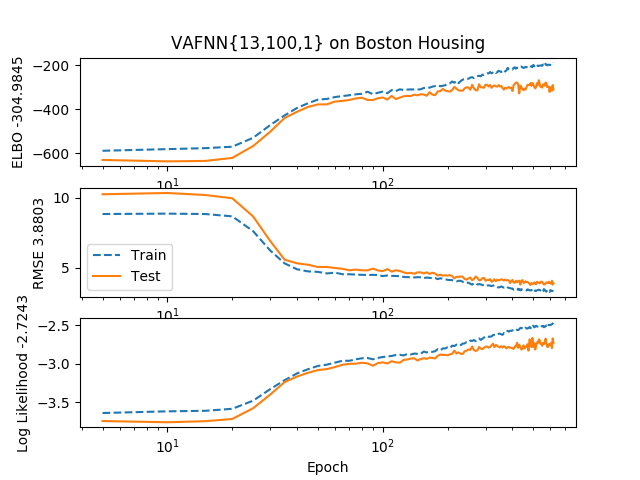
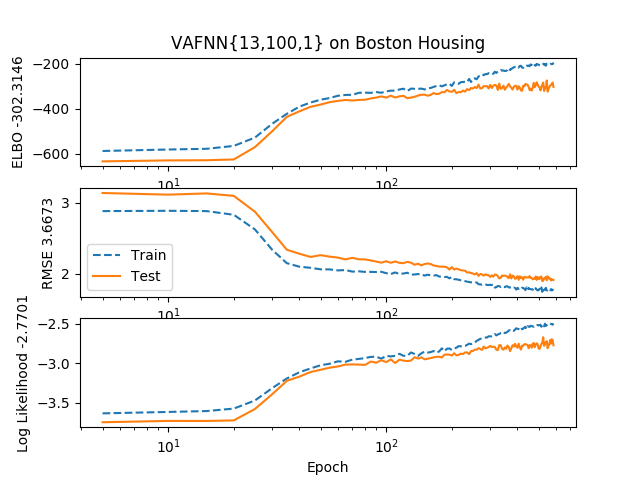
update VAF

diff --git a/expt.py b/expt.py
@@ -51,6 +51,7 @@ def run_experiment(model_names, dataset_name, train_test_set, **args):
     # Define training/evaluation parameters
     save = False if 'save' not in args.keys() else args['save']
     plot_err = True if 'plot_err' not in args.keys() else args['plot_err']
+    drop_rate = 0.5 if 'drop_rate' not in args.keys() else args['drop_rate']
     lb_samples = 20 if 'lb_samples' not in args.keys() else args['lb_samples']
     ll_samples = 100 if 'll_samples' not in args.keys() else args['ll_samples']
     batch_size = 50 if 'batch_size' not in args.keys() else args['batch_size']
@@ -83,7 +84,6 @@ def run_experiment(model_names, dataset_name, train_test_set, **args):
     
         # Build the computation graph
         n_samples = tf.placeholder(tf.int32, shape=[], name='n_samples')
-        is_training = tf.placeholder(tf.bool, shape=[], name='is_training')
         X = tf.placeholder(tf.float32, shape=[None, D])
         if(task == "regression"):
             y = tf.placeholder(tf.float32, shape=[None, P])
@@ -99,11 +99,11 @@ def run_experiment(model_names, dataset_name, train_test_set, **args):
             
             def log_joint(observed):
                 model, _, _ = module.p_Y_Xw(observed, X, n_basis,
-                    net_sizes, n_samples, task, is_training)
+                    net_sizes, n_samples, task, drop_rate)
                 log_pws = model.local_log_prob(w_names)
                 log_py_xw = model.local_log_prob('y')
                 return tf.add_n(log_pws) + zs.log_mean_exp(log_py_xw, 0) * N
-        
+            
             var = module.var_q_w(n_basis, net_sizes, n_samples)
             q_w_outputs = var.query(w_names, outputs=True, local_log_prob=True)
             latent = dict(zip(w_names, q_w_outputs))
@@ -118,25 +118,29 @@ def run_experiment(model_names, dataset_name, train_test_set, **args):
             observed = dict((w_name, latent[w_name][0]) for w_name in w_names)
             observed.update({'y': y_obs})
             model, ys, reg_cost = module.p_Y_Xw(observed, X, n_basis,
-                    net_sizes, n_samples, task, is_training)
+                    net_sizes, n_samples, task, drop_rate)
+            if(reg_cost is not None):
+                cost += reg_cost
             y_pred = tf.reduce_mean(ys, 0)
             if(task == "regression"):
-                sqr_error = tf.reduce_mean(((y_pred - y)*std_y_train) ** 2)
-                task_measure = sqr_error
+                rms_error = tf.sqrt(tf.reduce_mean((y_pred - y)**2))*std_y_train
+                task_measure = rms_error
             elif(task == "classification"):
                 y_pred = tf.argmax(y_pred, 1)
                 sparse_y = tf.argmax(y, 1)
                 accuracy = tf.reduce_mean(tf.cast(
                     tf.equal(y_pred, sparse_y), tf.float32))
-                task_measure = accuracy
+                task_measure = 1-accuracy
             log_py_xw = model.local_log_prob('y')
             if(task == "regression"):
                 log_likelihood = tf.reduce_mean(zs.log_mean_exp(log_py_xw, 0))-\
                     tf.log(std_y_train)
             elif(task == "classification"):
                 log_likelihood = tf.reduce_mean(zs.log_mean_exp(log_py_xw, 0))
-            if(reg_cost is not None):
-                cost += reg_cost
+            
+            # if(model_name == "DropoutNN"):
+            #     cost = task_measure
+            #     lower_bound = -task_measure
             
             lr_ph = tf.placeholder(tf.float32, shape=[])
             global_step = tf.Variable(0, trainable=False)
@@ -167,7 +171,7 @@ def run_experiment(model_names, dataset_name, train_test_set, **args):
                             y_batch = y_train[t*batch_size:(t+1)*batch_size]
                         _, lb = sess.run(
                             [infer_op, cost],
-                            feed_dict={n_samples: lb_samples, is_training: True,
+                            feed_dict={n_samples: lb_samples,
                                 lr_ph: lr, X: X_batch, y: y_batch})
                         lbs.append(lb)
                     time_epoch += time.time()
@@ -186,7 +190,7 @@ def run_experiment(model_names, dataset_name, train_test_set, **args):
                             lb, tm, ll = sess.run(
                                 [lower_bound, task_measure, log_likelihood],
                                 feed_dict={n_samples: ll_samples,
-                                    is_training: False, X: X_batch, y: y_batch})
+                                    X: X_batch, y: y_batch})
                             lbs.append(lb);tms.append(tm);lls.append(ll)
                         train_lb, train_tm, train_ll =\
                             np.mean(lbs), np.mean(tms), np.mean(lls)
@@ -204,7 +208,7 @@ def run_experiment(model_names, dataset_name, train_test_set, **args):
                         print('>> Train lower bound = {:.8f}'.format(train_lb))
                         print('>> Train log_likelihood = {:.8f}'.format(train_ll))
                         if(task == "regression"):
-                            print('>> Train rmse = {:.8f}'.format(np.sqrt(train_tm)))
+                            print('>> Train rmse = {:.8f}'.format(train_tm))
                         elif(task == "classification"):
                             print('>> Train acc = {:.8f}'.format(train_tm))
                         lbs, tms, lls = [], [], []
@@ -218,7 +222,7 @@ def run_experiment(model_names, dataset_name, train_test_set, **args):
                                 y_batch = y_test[t*batch_size:(t+1)*batch_size]
                             lb, mse, ll = sess.run(
                                 [lower_bound, task_measure, log_likelihood],
-                            feed_dict={n_samples: ll_samples, is_training: False,
+                            feed_dict={n_samples: ll_samples,
                                 X: X_batch, y: y_batch})
                             lbs.append(lb);tms.append(mse);lls.append(ll)
                         test_lb, test_tm, test_ll =\
@@ -236,7 +240,7 @@ def run_experiment(model_names, dataset_name, train_test_set, **args):
                         print('>> Test lower bound = {:.8f}'.format(test_lb))
                         print('>> Test log_likelihood = {:.8f}'.format(test_ll))
                         if(task == "regression"):
-                            print('>> Test rmse = {:.8f}'.format(np.sqrt(test_tm)))
+                            print('>> Test rmse = {:.8f}'.format(test_tm))
                         elif(task == "classification"):
                             print('>> Test acc = {:.8f}'.format(test_tm))
                         if(best_lb < train_lb):
@@ -270,8 +274,8 @@ def run_experiment(model_names, dataset_name, train_test_set, **args):
                             X_batch = X_test[t*batch_size:(t+1)*batch_size]
                             y_batch = y_test[t*batch_size:(t+1)*batch_size]
                         mse, ll = sess.run(
-                            [sqr_error, log_likelihood],
-                            feed_dict={n_samples: ll_samples, is_training: False,
+                            [rms_error, log_likelihood],
+                            feed_dict={n_samples: ll_samples, drop_rate: False,
                                 X: X_batch, y: y_batch})
                         tms.append(mse);lls.append(ll)
                     test_tm, test_ll = np.mean(tms), np.mean(lls)
@@ -280,7 +284,7 @@ def run_experiment(model_names, dataset_name, train_test_set, **args):
                 print('>>> BEST TEST')
                 print('>> Test log_likelihood = {:.8f}'.format(test_ll))
                 if(task == "regression"):
-                    print('>> Test rmse = {:.8f}'.format(np.sqrt(test_tm)))
+                    print('>> Test rmse = {:.8f}'.format(test_tm))
                 elif(task == "classification"):
                     print('>> Test acc = {:.8f}'.format(test_tm))
                 eval_tms[model_name].append(test_tm)
@@ -302,15 +306,15 @@ def run_experiment(model_names, dataset_name, train_test_set, **args):
                 
                 plt.subplot(3, 1, 2)
                 plt.semilogx(test_max_epochs,
-                    np.sqrt(fold_train_tms[:best_epoch]), '--', label='Train')
+                    fold_train_tms[:best_epoch], '--', label='Train')
                 plt.semilogx(test_max_epochs,
-                    np.sqrt(fold_test_tms[:best_epoch]), label='Test')
+                    fold_test_tms[:best_epoch], label='Test')
                 plt.legend(loc='lower left')
                 plt.xlabel('Epoch')
                 if(task == "regression"):
-                    plt.ylabel('RMSE {:.4f}'.format(np.sqrt(test_tm)))
+                    plt.ylabel('RMSE {:.4f}'.format(test_tm))
                 elif(task == "classification"):
-                    plt.ylabel('Accuracy {:.4f}'.format(np.sqrt(test_tm)))
+                    plt.ylabel('Accuracy {:.4f}'.format(test_tm))
                     plt.ylim([0, 1])
                     
                 plt.subplot(3, 1, 3)

diff --git a/models/VAFNN.py b/models/VAFNN.py
@@ -24,10 +24,11 @@ import tensorflow.contrib.layers as layers
 
 
 def get_w_names(net_sizes):
-    return ['w'+str(i) for i in range(len(net_sizes)-1)]
+    return ['w'+str(i) for i in range(len(net_sizes)-1)]+\
+        ['omega'+str(i) for i in range(len(net_sizes)-2)]
 
 @zs.reuse('model')
-def p_Y_Xw(observed, X, n_basis, net_sizes, n_samples, task, is_training):
+def p_Y_Xw(observed, X, n_basis, net_sizes, n_samples, task, drop_rate):
     with zs.BayesianNet(observed=observed) as model:
         f = tf.expand_dims(tf.tile(tf.expand_dims(X, 0), [n_samples, 1, 1]), 2)
         KL_V = 0
@@ -48,19 +49,23 @@ def p_Y_Xw(observed, X, n_basis, net_sizes, n_samples, task, is_training):
                     initializer=tf.constant_initializer(0.))
                 b = tf.tile(b, [n_samples, tf.shape(X)[0], 1, 1])
                 f = (tf.matmul(f, A)+b)/tf.sqrt(net_sizes[i]*1.)
-                f = layers.dropout(f, 0.5, is_training=True)
-                V = tf.get_variable('w_var'+str(i),
+                # f = layers.dropout(f, drop_rate)
+                w_p = tf.zeros([1, 1, net_sizes[i+1]])+drop_rate
+                w = zs.Bernoulli('w'+str(i), w_p,
+                    n_samples=n_samples, group_ndims=2)
+                f = f*tf.cast(w, tf.float32)
+                V = tf.get_variable('omega_var'+str(i),
                     shape=[1, 1, net_sizes[i+1], n_basis],
                     initializer=tf.constant_initializer(0.))
                 V = tf.tile(tf.abs(V), [n_samples, tf.shape(X)[0], 1, 1])
                 expVf2 = tf.exp(-2*np.pi**2*tf.matmul(f**2, V))
-                M = tf.get_variable('w_mean'+str(i),
+                M = tf.get_variable('omega_mean'+str(i),
                     shape=[1, net_sizes[i+1], n_basis],
                     initializer=tf.constant_initializer(0.))
-                w = 2*np.pi*zs.Normal('w'+str(i), M, std=1.,
+                omega = 2*np.pi*zs.Normal('omega'+str(i), M, std=1.,
                             n_samples=n_samples, group_ndims=2)
-                w = tf.tile(w, [1, tf.shape(X)[0], 1, 1])
-                f = tf.matmul(f, w)/tf.sqrt(net_sizes[i+1]*1.)
+                omega = tf.tile(omega, [1, tf.shape(X)[0], 1, 1])
+                f = tf.matmul(f, omega)/tf.sqrt(net_sizes[i+1]*1.)
                 f = tf.concat([expVf2*tf.cos(f), expVf2*tf.sin(f)], 3)
                 KL_V += tf.reduce_mean(M**2+V-tf.log(V+1e-8))
                 continue
@@ -84,14 +89,17 @@ def var_q_w(n_basis, net_sizes, n_samples):
     with zs.BayesianNet() as variational:
         for i in range(len(net_sizes)-1):
             if(i < len(net_sizes)-2):
-                w_mean = tf.get_variable('w_mean'+str(i),
+                w_p = tf.get_variable('w_p'+str(i), shape=[1, 1, net_sizes[i+1]],
+                    initializer=tf.constant_initializer(0.5))
+                zs.Bernoulli('w'+str(i), w_p, n_samples=n_samples, group_ndims=2)
+                omega_mean = tf.get_variable('omega_mean'+str(i),
                     shape=[1, net_sizes[i+1], n_basis],
                     initializer=tf.constant_initializer(0.))
-                w_logstd = tf.get_variable('w_logstd'+str(i),
+                omega_logstd = tf.get_variable('omega_logstd'+str(i),
                     shape=[1, net_sizes[i+1], n_basis],
                     initializer=tf.constant_initializer(0.))
-                w = zs.Normal('w'+str(i), w_mean, logstd=w_logstd,
-                        n_samples=n_samples, group_ndims=2)
+                omega = zs.Normal('omega'+str(i), omega_mean,
+                    logstd=omega_logstd, n_samples=n_samples, group_ndims=2)
                 pass
             else:
                 w_mean = tf.get_variable('w_mean'+str(i),

diff --git a/models/DropoutNN.py b/models/DropoutNN.py
@@ -20,6 +20,7 @@ from __future__ import division
 import numpy as np
 import zhusuan as zs
 import tensorflow as tf
+import tensorflow.contrib.layers as layers
 
 
 def get_w_names(net_sizes):
@@ -30,18 +31,17 @@ def p_Y_Xw(observed, X, n_basis, net_sizes, n_samples, task, drop_rate):
     with zs.BayesianNet(observed=observed) as model:
         f = tf.expand_dims(tf.tile(tf.expand_dims(X, 0), [n_samples, 1, 1]), 2)
         for i in range(len(net_sizes)-1):
-            w_mu = tf.zeros([1, net_sizes[i]+1, net_sizes[i+1]])
-            w = zs.Normal('w'+str(i), w_mu, std=1.,
-                          n_samples=n_samples, group_ndims=2)
-            w = tf.tile(w, [1, tf.shape(X)[0], 1, 1])
-            f = tf.concat([f, tf.ones([n_samples, tf.shape(X)[0], 1, 1])], 3)
-            f = tf.matmul(f, w) / tf.sqrt(net_sizes[i]+1.)
+            f = tf.layers.dense(f, net_sizes[i+1])
+            w_p = tf.zeros([1, 1, net_sizes[i+1]])+drop_rate
+            w = zs.Bernoulli('w'+str(i), w_p,
+                n_samples=n_samples, group_ndims=2)
+            f = f*tf.cast(w, tf.float32)
             if(i < len(net_sizes)-2):
                 f = tf.nn.relu(f)
         f = tf.squeeze(f, [2])
         if(task == "regression"):
             y_logstd = tf.get_variable('y_logstd', shape=[],
-                                    initializer=tf.constant_initializer(0.))
+                initializer=tf.constant_initializer(0.))
             y = zs.Normal('y', f, logstd=y_logstd, group_ndims=1)
         elif(task == "classification"):
             y = zs.OnehotCategorical('y', f)
@@ -51,12 +51,7 @@ def p_Y_Xw(observed, X, n_basis, net_sizes, n_samples, task, drop_rate):
 def var_q_w(n_basis, net_sizes, n_samples):
     with zs.BayesianNet() as variational:
         for i in range(len(net_sizes)-1):
-            w_mean = tf.get_variable('w_mean_'+str(i),
-                shape=[1, net_sizes[i]+1, net_sizes[i+1]],
-                initializer=tf.constant_initializer(0.))
-            w_logstd = tf.get_variable('w_logstd_'+str(i),
-                shape=[1, net_sizes[i]+1, net_sizes[i+1]],
-                initializer=tf.constant_initializer(0.))
-            zs.Normal('w' + str(i), w_mean, logstd=w_logstd,
-                      n_samples=n_samples, group_ndims=2)
+            w_p = tf.get_variable('w_p'+str(i), shape=[1, 1, net_sizes[i+1]],
+                initializer=tf.constant_initializer(0.5))
+            zs.Bernoulli('w'+str(i), w_p, n_samples=n_samples, group_ndims=2)
     return variational

diff --git a/boston_housing/training.py b/boston_housing/training.py
@@ -62,20 +62,22 @@ if __name__ == '__main__':
     if('cpu' in sys.argv):
         os.environ['CUDA_VISIBLE_DEVICES'] = '-1'
     
-    model_names = ['VAFNN', 'BNN']
+    model_names = ['VAFNN', 'DropoutNN', 'BayesNN']
     
     train_test_set = load_data(5)
     D, P = train_test_set[0][0].shape[1], train_test_set[0][1].shape[1]
     
     # Fair Model Comparison - Same Architecture & Optimization Rule
     training_settings = {
+        'save': False,
         'plot_err': True,
+        'drop_rate': 0.5,
         'lb_samples': 20,
         'll_samples': 100,
         'n_basis': 50,
         'n_hiddens': [100],
         'batch_size': 10,
-        'learn_rate': 1e-3,
+        'learn_rate': 1e-2,
         'max_epochs': 10000,
         'early_stop': 10,
         'check_freq': 5,

diff --git a/models/BayesNN.py b/models/BayesNN.py
@@ -26,7 +26,7 @@ def get_w_names(net_sizes):
     return ['w'+str(i) for i in range(len(net_sizes)-1)]
 
 @zs.reuse('model')
-def p_Y_Xw(observed, X, n_basis, net_sizes, n_samples, task, drop_rate):
+def p_Y_Xw(observed, X, n_basis, net_sizes, n_samples, task, is_training):
     with zs.BayesianNet(observed=observed) as model:
         f = tf.expand_dims(tf.tile(tf.expand_dims(X, 0), [n_samples, 1, 1]), 2)
         for i in range(len(net_sizes)-1):
